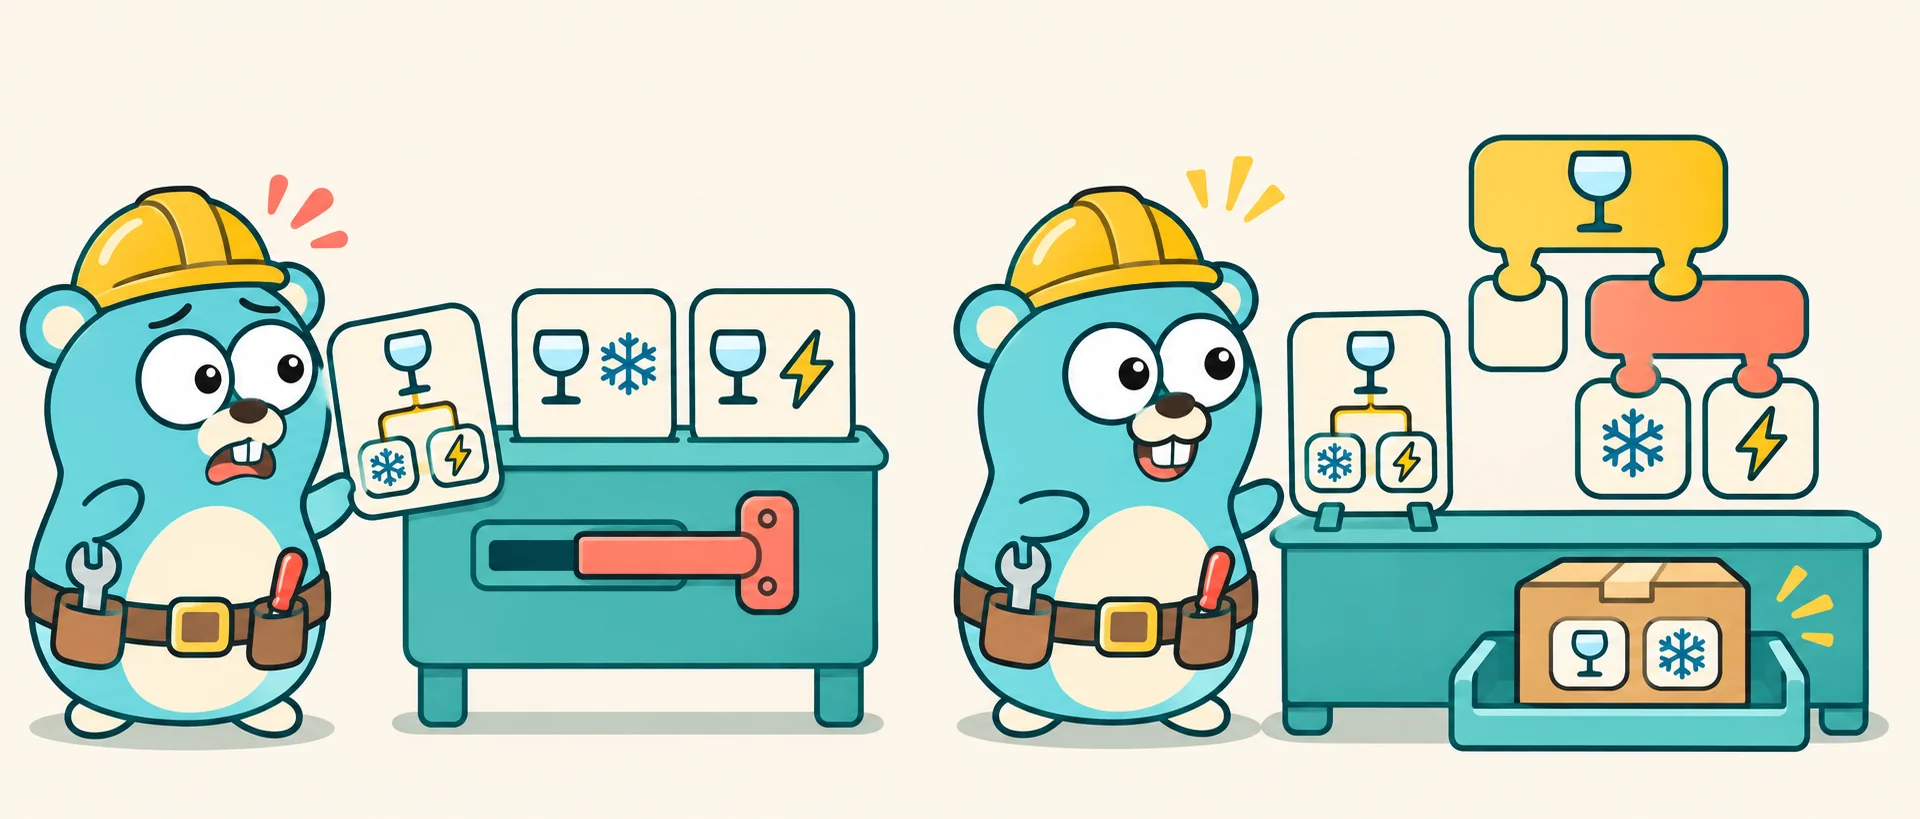
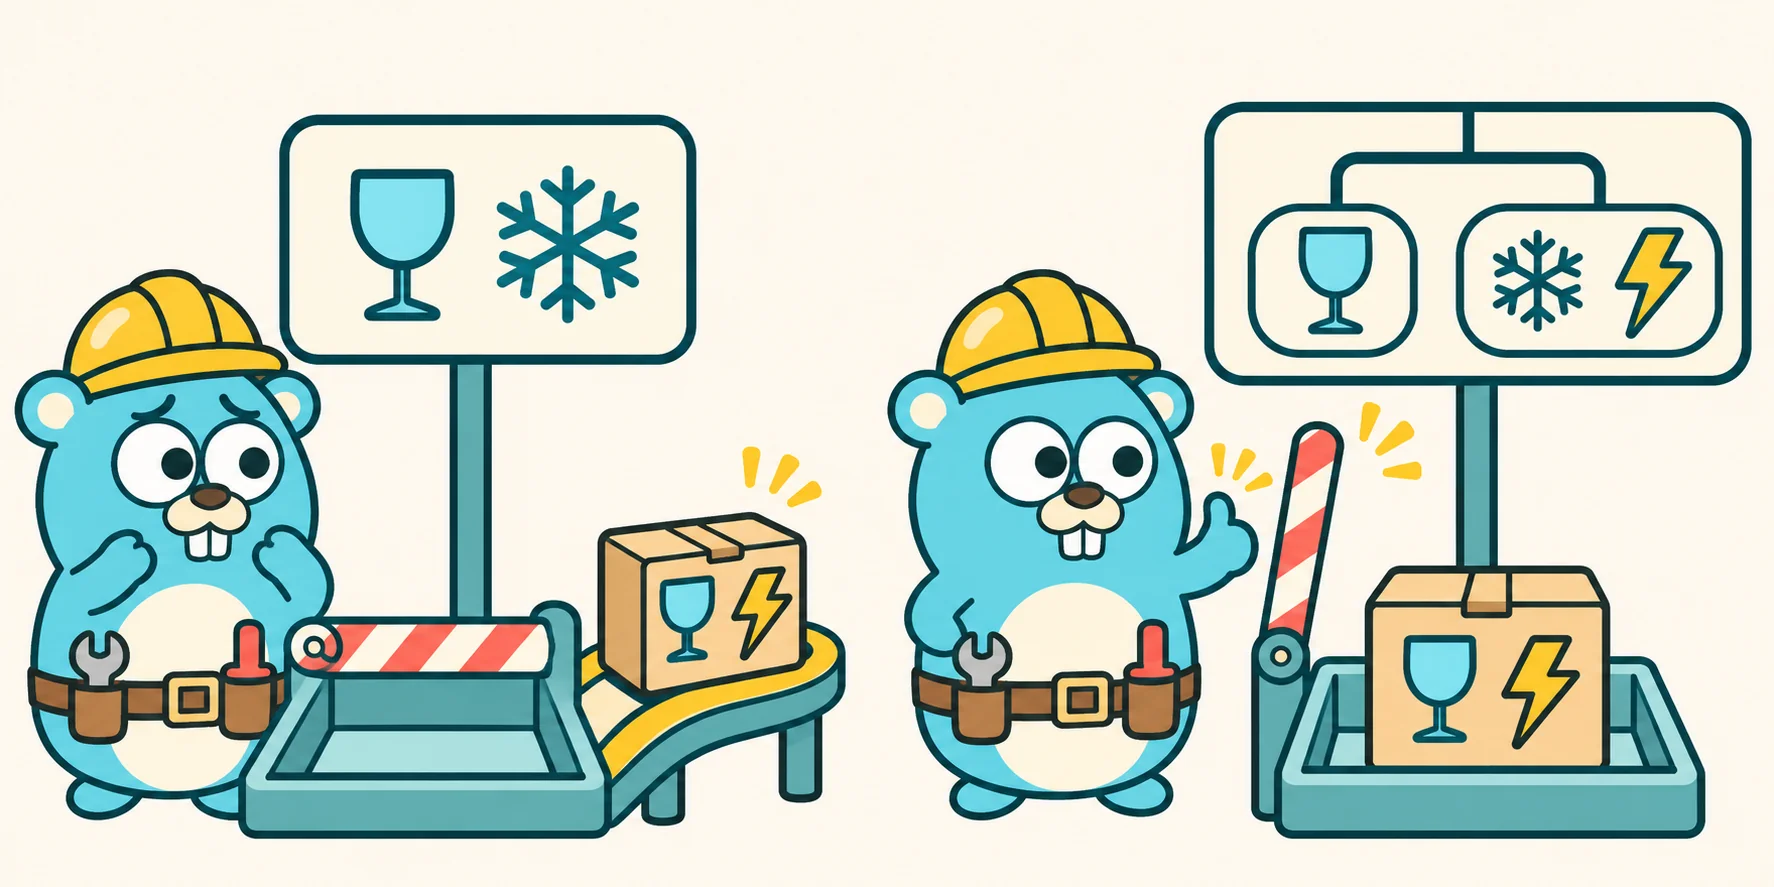
docs: 重画桥接和解释器问题图并校准图注

diff --git a/docs/behavioral/interpreter/problem.md b/docs/behavioral/interpreter/problem.md
@@ -4,9 +4,9 @@
 
 分拣台按标签筛选包裹：`fragile` 是易碎，`cold` 是冷藏，`express` 是加急。上周的规则是「易碎且冷藏」，这周运营想改成「易碎，且冷藏或加急」，下周可能又变。
 
-![左：分拣台只收两张固定的图标规则卡，吉祥物把新的组合卡递过去却被挡住；右：吉祥物照同一张卡拼好规则积木，带玻璃杯和雪花贴纸的包裹滑入托盘](../../assets/images/interpreter-problem.webp){ .illus }
+![两边的包裹都贴着玻璃杯和闪电。左边挡杆放下，包裹走旁路；右边用积木拼出新规则，挡杆抬起，包裹进入托盘。](../../assets/images/interpreter-problem.webp){ .illus }
 
-<p class="caption">规则写死，新卡片就进不去；规则能用积木拼，来什么卡都能照着拼</p>
+<p class="caption">同一个易碎加急的包裹：旧规则要求冷藏，不放行；新规则允许冷藏或加急，因此放行。</p>
 
 最直接的写法：规则就是一行 Go 代码。
 
@@ -27,13 +27,13 @@
 
 ```mermaid
 flowchart TD
-    root[与] --> fragile[易碎]
-    root --> alt[或]
+    root[两项都要满足] --> fragile[易碎]
+    root --> alt[至少满足一项]
     alt --> cold[冷藏]
     alt --> express[加急]
 ```
 
-<p class="caption">「冷藏或加急」整体占「与」的一个位置，所以加急不能绕过易碎</p>
+<p class="caption">易碎加急：放行；只有加急：不放行。加急只满足右边的条件，左边的易碎条件也必须满足。</p>
 
 说白了：==`&&`、`||`、`!` 各写成一个小结构体，都有 `Eval` 方法；规则就是它们拼成的树。== 叶子查一个标签；「与」节点问左右两个孩子，再把答案合起来。从根节点 `Eval`，一路问到叶子，答案就出来了。换规则只是换一棵树，代码不用改。
 

diff --git a/docs/structural/bridge/problem.md b/docs/structural/bridge/problem.md
@@ -4,9 +4,9 @@
 
 监控系统要发告警：消息分普通和紧急两种，渠道有短信和邮件两种，以后还会加微信、加定时消息。
 
-![左：一个塞满的格子柜，每格是一封信绑在一种送信工具上，吉祥物满头大汗还在往里塞；右：一摞信和一排送信工具分开放，吉祥物从容地把一封信交给信鸽](../../assets/images/bridge-problem.webp){ .illus }
+![左边普通信和盖红印的紧急信各指向一只信鸽；右边两封信的箭头指向同一只信鸽。](../../assets/images/bridge-problem.webp){ .illus }
 
-<p class="caption">信和送信工具绑在一起，每加一样都要全部重来；分开放，随取随配</p>
+<p class="caption">用信鸽代表新增渠道：左边两类消息各接一次，右边只加一份发送实现，两类消息都能用。</p>
 
 最直觉的写法：渠道用一个字符串表示，每种消息里 `switch` 一下：
 
@@ -45,8 +45,8 @@ classDiagram
     }
     Notice <|.. Normal
     Notice <|.. Urgent
-    Normal o--> Sender : 桥
-    Urgent o--> Sender : 桥
+    Normal o--> Sender : sender 字段
+    Urgent o--> Sender : sender 字段
     Sender <|.. SMS
     Sender <|.. Email
 ```
@@ -55,8 +55,8 @@ classDiagram
 
 | 角色 | 职责 | 本例中 |
 |---|---|---|
-| 抽象（Abstraction） | 调用方使用的高层接口，持有实现 | `Notice` |
-| 扩展抽象（Refined Abstraction） | 抽象的不同变体 | `Normal`、`Urgent` |
+| 抽象（Abstraction） | 调用方使用的发消息接口 | `Notice` |
+| 扩展抽象（Refined Abstraction） | 各管一种消息格式，持有 `Sender` | `Normal`、`Urgent` |
 | 实现（Implementor） | 底层操作的接口 | `Sender` |
 | 具体实现（Concrete Implementor） | 底层操作的不同做法 | `SMS`、`Email` |
 

diff --git a/docs/appendix/class-diagram.md b/docs/appendix/class-diagram.md
@@ -37,12 +37,13 @@ classDiagram
 
 ## 连线看关系
 
-本书只用到下面 4 种线。箭头都**从「知道对方的一边」指向「被知道的一边」**。
+先看箭头或菱形在谁那一端：三角指向接口，菱形标在容器一端；普通箭头指向被持有或被调用的一方。
 
 | 线 | 名称 | 读作 | 对应的 Go | 例子 |
 |---|---|---|---|---|
 | `A <\|.. B`（虚线 + 空心三角） | 实现 | B 实现了接口 A | B 拥有 A 要求的全部方法，不用写 `implements` | [策略](../behavioral/strategy/problem.md)：`Percent` 实现 `Discount` |
-| `A o--> B`（实线 + 空心菱形） | 聚合 | A 持有 B，B 由外部传入，可单独存在、可替换 | A 的字段类型是 B 或 `[]B` | [观察者](../behavioral/observer/problem.md)：`Shop` 持有一组 `Observer` |
+| `A o--> B`（实线 + 空心菱形） | 聚合 | A 持有 B，B 可以独立存在，也可以被多个对象共享 | A 的字段类型是 B 或 `[]B` | [观察者](../behavioral/observer/problem.md)：`Shop` 持有一组 `Observer` |
+| `A *-- B`（实线 + 实心菱形） | 组合 | A 管理一组作为自身组成部分的 B | 通常是 A 的字段 | [中介者](../behavioral/mediator/problem.md)：`Checkout` 管理三个控件 |
 | `A --> B`（实线箭头） | 关联 | A 长期知道 B，会调用它 | 通常是 A 的字段 | [外观](../structural/facade/problem.md)：`HomeTheater` 调各个设备 |
 | `A ..> B`（虚线箭头） | 依赖 | A 只在某次调用中用到 B | B 出现在参数、返回值或函数体里 | [迭代器](../behavioral/iterator/problem.md)：`Playlist` 创建 `Iterator` |
 

diff --git a/docs/structural/decorator/problem.md b/docs/structural/decorator/problem.md
@@ -6,7 +6,7 @@
 
 ![左：一台咖啡机装满了开关和管子，吉祥物满头大汗地打开侧板，还要再装一个出料口；右：一杯普通美式和几罐独立的配料，吉祥物从容地往杯里倒牛奶](../../assets/images/decorator-problem.webp){ .illus }
 
-<p class="caption">每种配料都焊进机器里，加一种就得拆一次机器；配料单独放，现点现往杯里加</p>
+<p class="caption">配料不再焊在机器里，可以单独加。代码里每份配料是一个独立的包装层，里面的饮品不用改。</p>
 
 最直觉的写法：订单上给每种配料一个开关，每个方法里挨个 `if`：
 

diff --git a/docs/creational/factory-method/problem.md b/docs/creational/factory-method/problem.md
@@ -6,7 +6,7 @@
 
 ![三步：吉祥物在堆满瓶罐的工作台前手忙脚乱地调饮料；走到售货机前按下珊瑚色按钮；开心地捧着送出的饮料](../../assets/images/factory-method-problem.webp){ .illus }
 
-<p class="caption">每次都亲手调饮料，又慢又乱；交给售货机，按一下就拿到</p>
+<p class="caption">不用自己调饮料，只是第一步。工厂方法的关键是：按键、出货的流程不变，负责制作的模块可以换。</p>
 
 最直觉的写法是每个业务函数自己判断、自己创建：
 

diff --git a/docs/structural/flyweight/problem.md b/docs/structural/flyweight/problem.md
@@ -6,7 +6,7 @@
 
 ![左：吉祥物满头大汗，在一张张纸上逐棵手绘树，颜料桶堆成山；右：吉祥物从容地拿一枚树形印章，在纸上快速盖出一排树](../../assets/images/flyweight-problem.webp){ .illus }
 
-<p class="caption">每棵树都从头画一遍，颜料用不完也画不完；刻一枚印章，到处盖</p>
+<p class="caption">一枚印章可以盖在不同位置；同种树共享同一份名字和贴图，每棵树各自记录位置。</p>
 
 最直觉的写法：贴图直接放在每棵树里：
 

diff --git a/docs/structural/bridge/implementation.md b/docs/structural/bridge/implementation.md
@@ -22,7 +22,7 @@
 
 ![三步：吉祥物把小货车、纸飞机、信鸽排成一排；吉祥物坐在桌前折好一封普通信；吉祥物站在桥上，把一封盖了红色火漆的信递给对岸的信鸽](../../assets/images/bridge-steps.webp){ .illus }
 
-<p class="caption">两岸各自准备，桥上只传一封写好的信</p>
+<p class="caption">写信和送信分开：同一种渠道能发不同格式的信，同一种信也能换渠道发。</p>
 
 !!! tip "加一个微信渠道"
 

diff --git a/docs/structural/decorator/implementation.md b/docs/structural/decorator/implementation.md
@@ -18,7 +18,7 @@
 
 ![三步：一杯美式，套上一层牛奶，再套一层奶油](../../assets/images/decorator-layers.webp){ .illus }
 
-<p class="caption">每层的 Cost 先问里面那层，再加上自己的部分：15 → 15 + 3 → 15 + 3 + 5</p>
+<p class="caption">美式在最里，牛奶包住美式，奶油再包住牛奶层。计价从里往外加：15 → 18 → 23。</p>
 
 ```go
 --8<-- "codes/structural/decorator/example_test.go:example"
